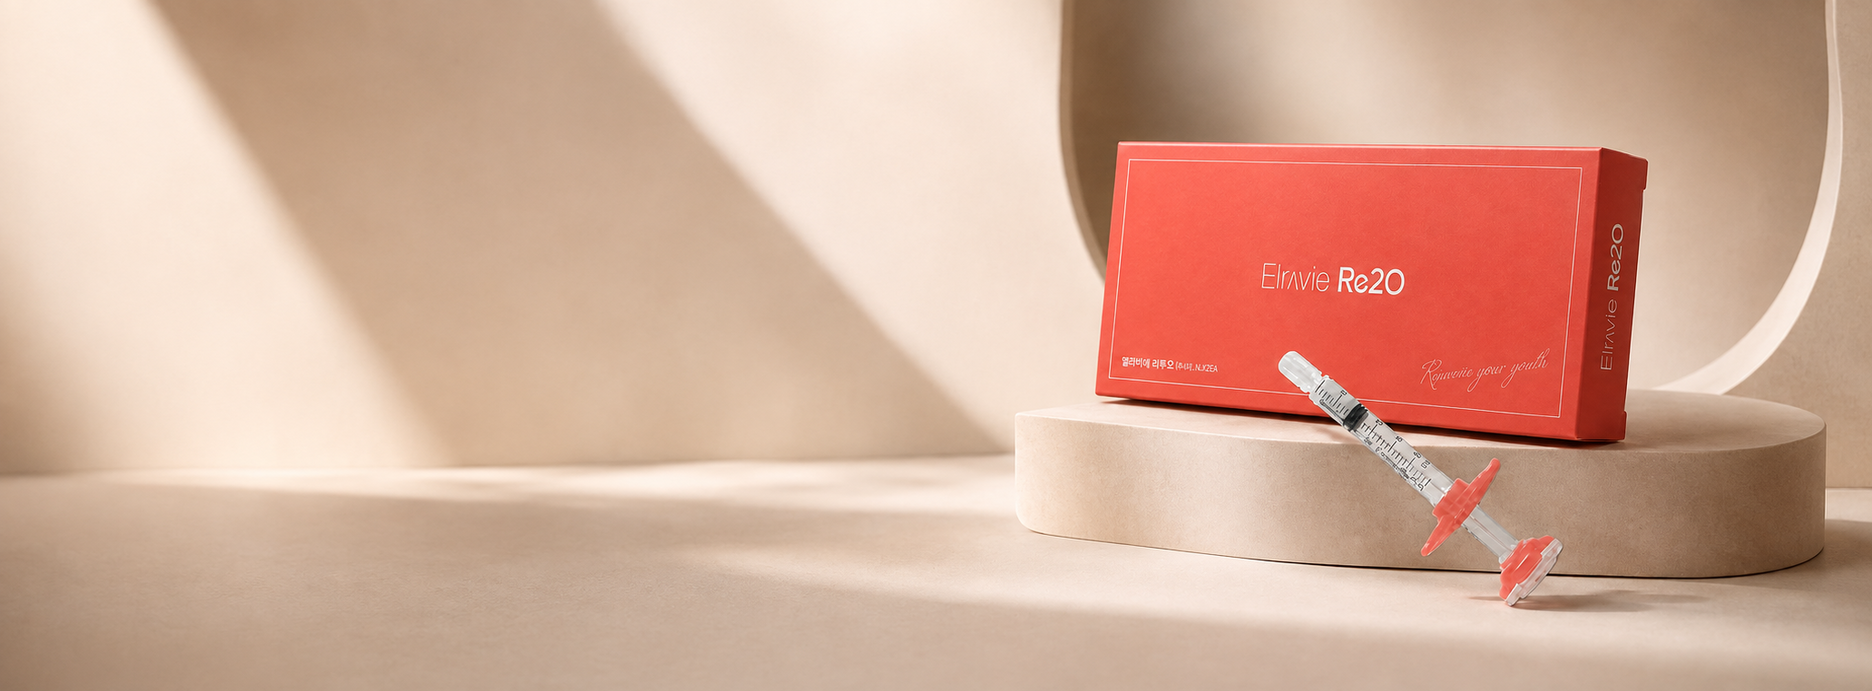
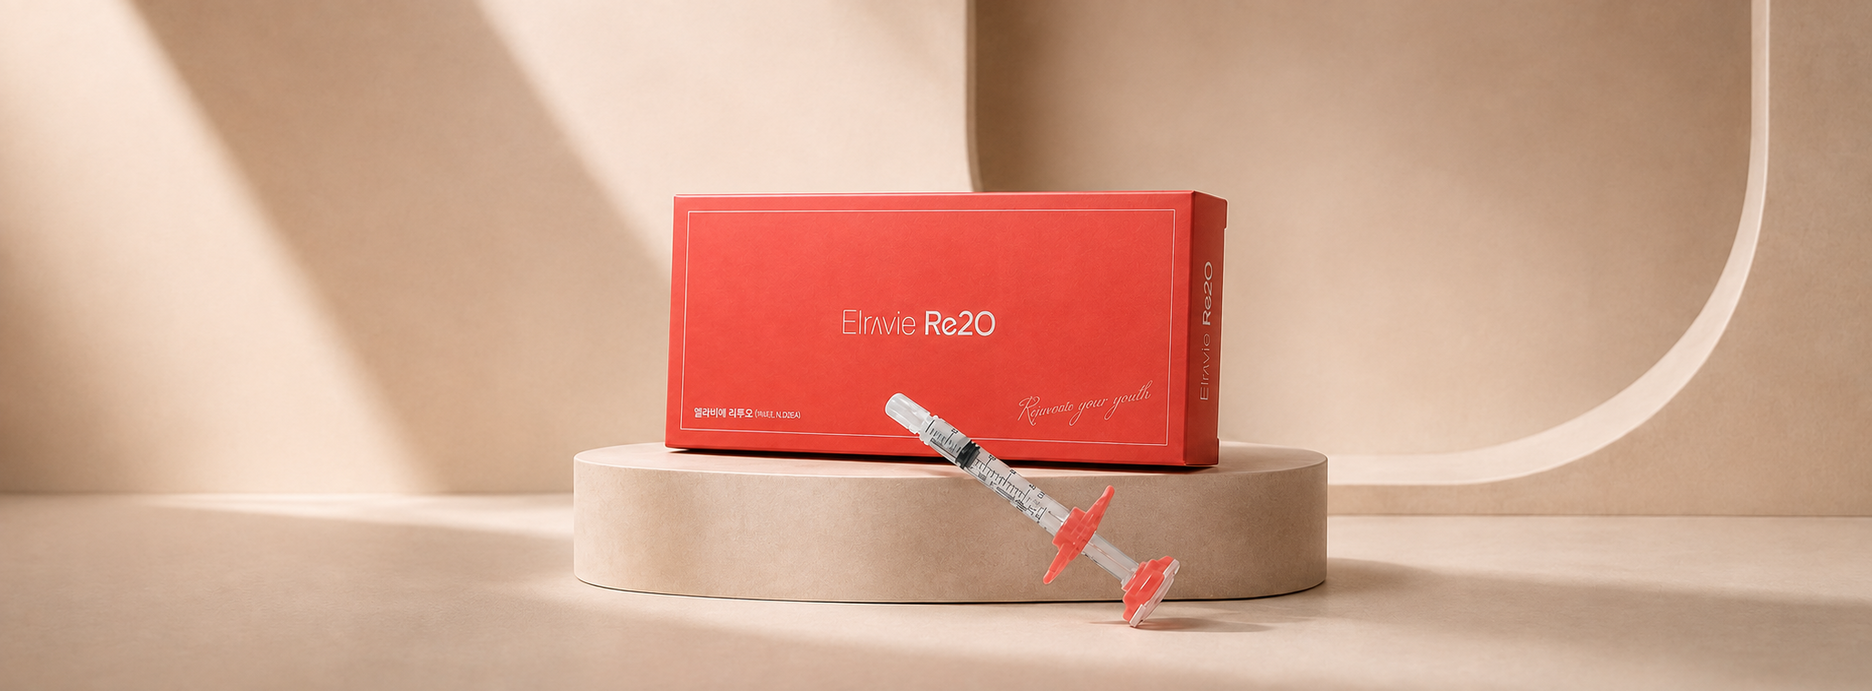
content/ui: 마루부리 서체 · TAP TO ENTER · 히어로 배너 확충 · 장비 인트로 전면 개편
서체/스플래시:
- 한글 세리프를 마루부리(MaruBuri)로 교체 (영문·숫자는 Cormorant 유지)
- 엔트리 스플래시에 TAP TO ENTER 인디케이터 (링 펄스 + 페이드, 로고 아래)

히어로 배너:
- 리프팅: 인모드·슈링크·엘란쎄 와이드 배너 신규
- 안티에이징 6종 센터드 버전 교체 (rejuran/juvelook/elravie/cellredm/skinvive/radiesse)
- 홍조 concern 히어로 배너 추가

장비 INTRO(헤드라인+본문) 9종: 슈링크·인모드·엘란쎄·리쥬란·쥬베룩·
리투오·셀르디엠·스킨바이브 + 써마지, 4개 로케일. 실측 기반 줄바꿈
(렌더 줄수 검증), 대표 문장 끝 마침표 제거

메뉴: 물광주사 항목 삭제 (헤더 드롭다운·카테고리 목록·sitemap)

diff --git a/app/[locale]/(site)/_components/EntrySplash.tsx b/app/[locale]/(site)/_components/EntrySplash.tsx
@@ -35,6 +35,37 @@ export function EntrySplash({ locale }: { locale: string }) {
         className="absolute inset-0 hidden h-full w-full object-cover sm:block"
       />
 
+      {/* TAP TO ENTER — 클릭 유도 인디케이터 */}
+      <style>{`
+        @keyframes tapPulse {
+          0%, 100% { opacity: 0.45; }
+          50% { opacity: 1; }
+        }
+        @keyframes tapRing {
+          0% { transform: scale(0.6); opacity: 0.7; }
+          70%, 100% { transform: scale(1.6); opacity: 0; }
+        }
+      `}</style>
+      <div
+        aria-hidden
+        className="pointer-events-none absolute inset-x-0 top-[60%] flex flex-col items-center gap-3"
+      >
+        {/* 링 펄스 닷 */}
+        <span className="relative grid h-8 w-8 place-items-center">
+          <span
+            className="absolute inset-0 rounded-full border border-white/70"
+            style={{ animation: "tapRing 2.4s ease-out infinite" }}
+          />
+          <span className="h-1.5 w-1.5 rounded-full bg-white/90" />
+        </span>
+        <p
+          className="text-[10px] font-semibold tracking-[0.45em] text-white [text-shadow:0_1px_10px_rgba(120,90,50,0.45)]"
+          style={{ animation: "tapPulse 2.4s ease-in-out infinite" }}
+        >
+          TAP TO ENTER
+        </p>
+      </div>
+
       <button
         type="button"
         onClick={enter}

diff --git a/lib/devices.ts b/lib/devices.ts
@@ -173,12 +173,15 @@ export function getDeviceImage(slug: string): string | null {
 const DEVICE_HERO_IMAGES: Record<string, string> = {
   "ulthera-prime": "/devices/ulthera-prime-hero.png",
   "thermage-flx": "/devices/thermage-flx-hero.png",
-  rejuran: "/devices/rejuran-hero.png",
-  juvelook: "/devices/juvelook-hero.png",
-  "elravie-re20": "/devices/elravie-re20-hero.png",
-  cellredm: "/devices/cellredm-hero.png",
-  skinvive: "/devices/skinvive-hero.png",
-  radiesse: "/devices/radiesse-hero.png",
+  "shurink-universe": "/devices/shurink-universe-hero.png",
+  inmode: "/devices/inmode-hero.png",
+  ellanse: "/devices/ellanse-hero.png",
+  rejuran: "/devices/rejuran-hero.png?v=2",
+  juvelook: "/devices/juvelook-hero.png?v=2",
+  "elravie-re20": "/devices/elravie-re20-hero.png?v=3",
+  cellredm: "/devices/cellredm-hero.png?v=2",
+  skinvive: "/devices/skinvive-hero.png?v=3",
+  radiesse: "/devices/radiesse-hero.png?v=3",
 };
 
 export function getDeviceHeroImage(slug: string): string | null {

diff --git a/app/layout.tsx b/app/layout.tsx
@@ -22,6 +22,11 @@ export default async function RootLayout({
           rel="stylesheet"
           href="https://cdn.jsdelivr.net/gh/orioncactus/pretendard@v1.3.9/dist/web/variable/pretendardvariable.min.css"
         />
+        {/* 마루부리 — 한글 세리프 (네이버 한글한글아름답게) */}
+        <link
+          rel="stylesheet"
+          href="https://hangeul.pstatic.net/hangeul_static/css/maru-buri.css"
+        />
         <link rel="preconnect" href="https://fonts.googleapis.com" />
         <link rel="preconnect" href="https://fonts.gstatic.com" crossOrigin="" />
         <link

diff --git a/app/globals.css b/app/globals.css
@@ -14,7 +14,7 @@
 
   --font-sans: "SUIT", "Pretendard Variable", Pretendard, -apple-system,
     BlinkMacSystemFont, system-ui, "Segoe UI", sans-serif;
-  --font-serif: "Cormorant Garamond", "Gowun Batang", "Noto Serif KR",
+  --font-serif: "Cormorant Garamond", "MaruBuri", "Noto Serif KR",
     "Nanum Myeongjo", Georgia, "Times New Roman", serif;
 
   --radius-xl: 1.5rem;

diff --git a/lib/concerns.ts b/lib/concerns.ts
@@ -37,8 +37,7 @@ const ORDER_BY_CATEGORY: Record<string, string[]> = {
     "elravie-re20",
     "cellredm",
     "skinvive",
-    "mulgwang",
-    "radiesse",
+        "radiesse",
     "botox",
     "filler",
   ],
